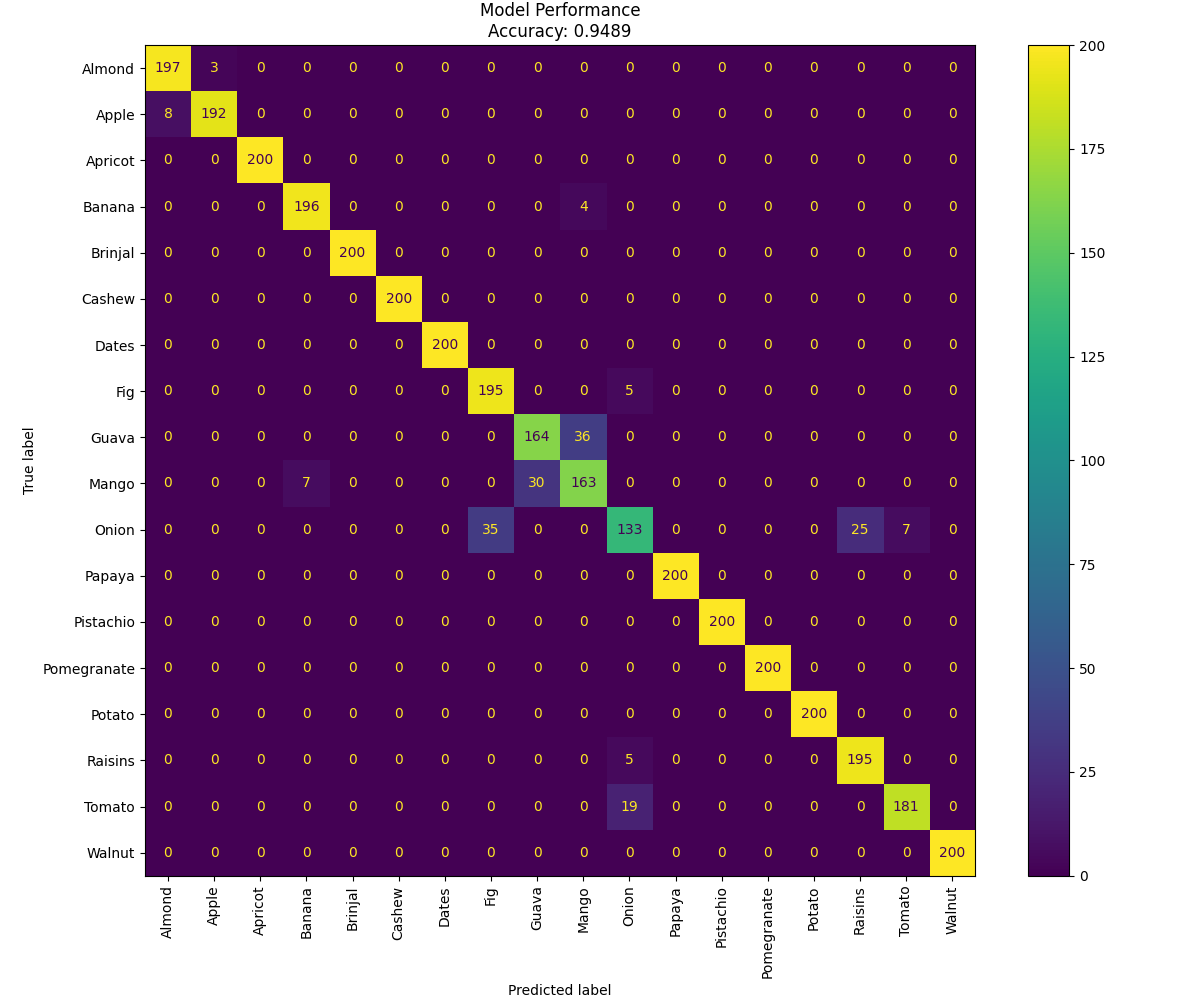
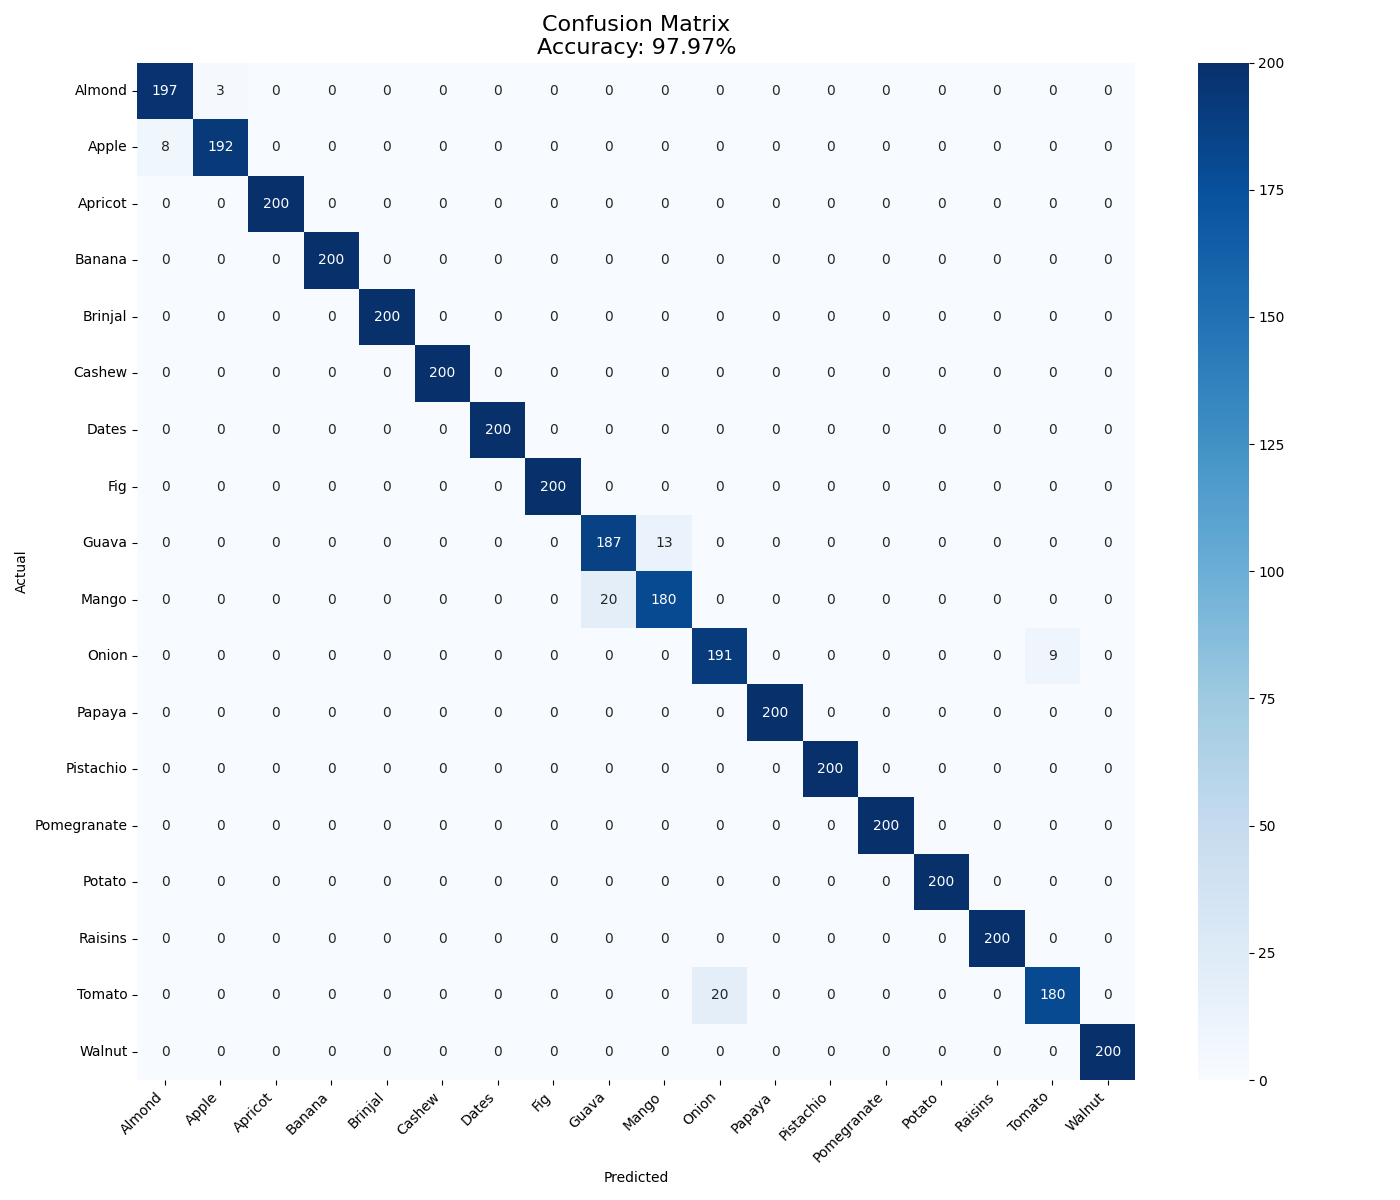
model changed2

diff --git a/ml-service/evaluate_model.py b/ml-service/evaluate_model.py
@@ -56,7 +56,26 @@ def main():
     print(f"Test Accuracy:  {test_acc*100:.2f}%")
     
     print("\nClassification Report:")
+    report = classification_report(y_test, y_pred, target_names=le.classes_, output_dict=True)
     print(classification_report(y_test, y_pred, target_names=le.classes_))
+
+    # --- Generate Precision Matrix (Confusion Matrix) ---
+    import matplotlib.pyplot as plt
+    from sklearn.metrics import confusion_matrix
+    import seaborn as sns
+
+    print("\nGenering Confusion Matrix...")
+    cm = confusion_matrix(y_test, y_pred)
+    
+    plt.figure(figsize=(14, 12))
+    sns.heatmap(cm, annot=True, fmt='d', cmap='Blues', xticklabels=le.classes_, yticklabels=le.classes_)
+    plt.xlabel('Predicted')
+    plt.ylabel('Actual')
+    plt.title(f'Confusion Matrix\nAccuracy: {test_acc*100:.2f}%', fontsize=16)
+    plt.xticks(rotation=45, ha='right')
+    plt.tight_layout()
+    plt.savefig('confusion_matrix.png')
+    print("Confusion matrix saved as 'confusion_matrix.png'")
 
 if __name__ == "__main__":
     main()
